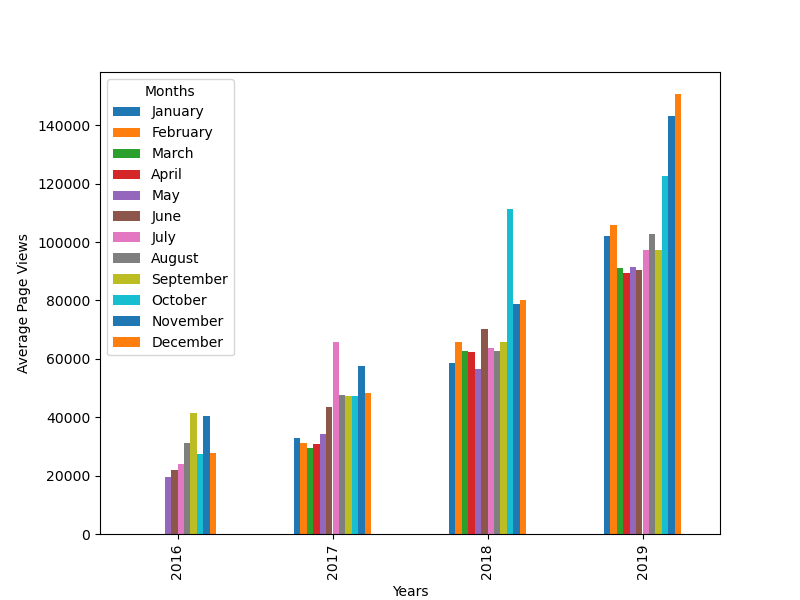
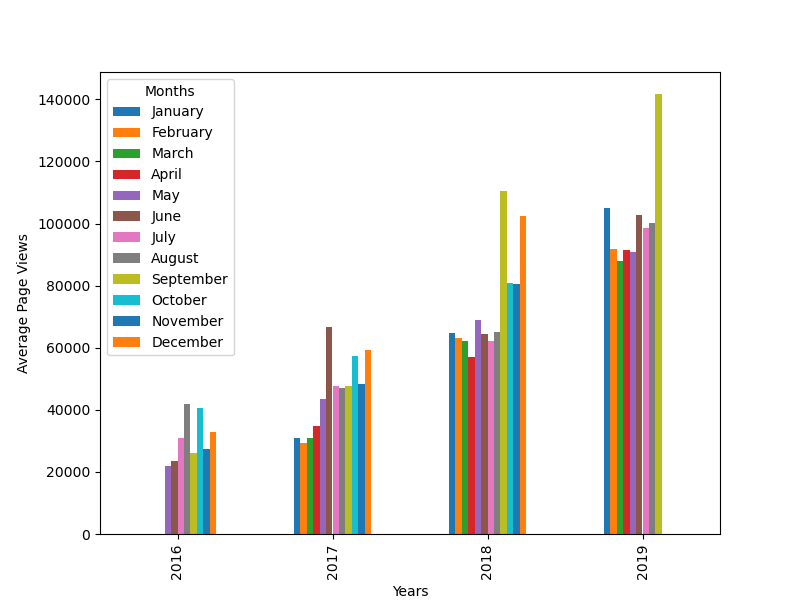
Completed all tests

diff --git a/time_series_visualizer.py b/time_series_visualizer.py
@@ -5,21 +5,19 @@ from pandas.plotting import register_matplotlib_converters
 register_matplotlib_converters()
 
 # Import data (Make sure to parse dates. Consider setting index column to 'date'.)
-df = pd.read_csv("fcc-forum-pageviews.csv",parse_dates=[0])
+df = pd.read_csv("fcc-forum-pageviews.csv",parse_dates=[0],index_col="date")
 
 # Clean data
 df = df[(df["value"] >= df["value"].quantile(0.025)) & (df["value"] <= df["value"].quantile(0.975))]
-#df["date"] = pd.to_datetime(df["date"])
 
 def draw_line_plot():
     # Draw line plot
     fig = plt.figure(figsize=[18,6])
-    plt.plot(df["date"],df["value"])
+    plt.plot(df["value"])
     #plt.plot_date(x=df["date"],y=df["value"],xdate=True,linestyle="solid")
     plt.xlabel('Date')
     plt.ylabel('Page Views')
     plt.title('Daily freeCodeCamp Forum Page Views 5/2016-12/2019')
-    
     
 
 
@@ -29,10 +27,12 @@ def draw_line_plot():
     return fig
 
 
-
 def draw_bar_plot():
     # Copy and modify data for monthly bar plot
-    df_bar = df.groupby([df["date"].dt.strftime('%Y'),df["date"].dt.strftime('%B')],sort = False)['value'].mean()
+    df = pd.read_csv("fcc-forum-pageviews.csv",parse_dates=[0])
+    df = df[(df["value"] >= df["value"].quantile(0.025)) & (df["value"] <= df["value"].quantile(0.975))]
+    #The code above this line is to make up for the fact that I did not initially add the index_col parameters to df that was needed to pass the tests
+    df_bar = df.reset_index().groupby([df["date"].dt.strftime('%Y'),df["date"].dt.strftime('%B')],sort = False)['value'].mean()
     df_bar = df_bar.rename_axis(["Years","Months"]).unstack()
     df_bar_col = df_bar.columns.tolist()
     new_col = df_bar_col[8:]+df_bar_col[0:8]
@@ -43,8 +43,11 @@ def draw_bar_plot():
     # Save image and return fig (don't change this part)
     fig.savefig('bar_plot.png')
     return fig
-
+draw_bar_plot()
 def draw_box_plot():
+    df = pd.read_csv("fcc-forum-pageviews.csv",parse_dates=[0])
+    df = df[(df["value"] >= df["value"].quantile(0.025)) & (df["value"] <= df["value"].quantile(0.975))]
+    #The code above this line is to make up for the fact that I did not initially add the index_col parameters to df that was needed to pass the tests
     # Prepare data for box plots (this part is done!)
     df_box = df.copy()
     df_box.reset_index(inplace=True)
